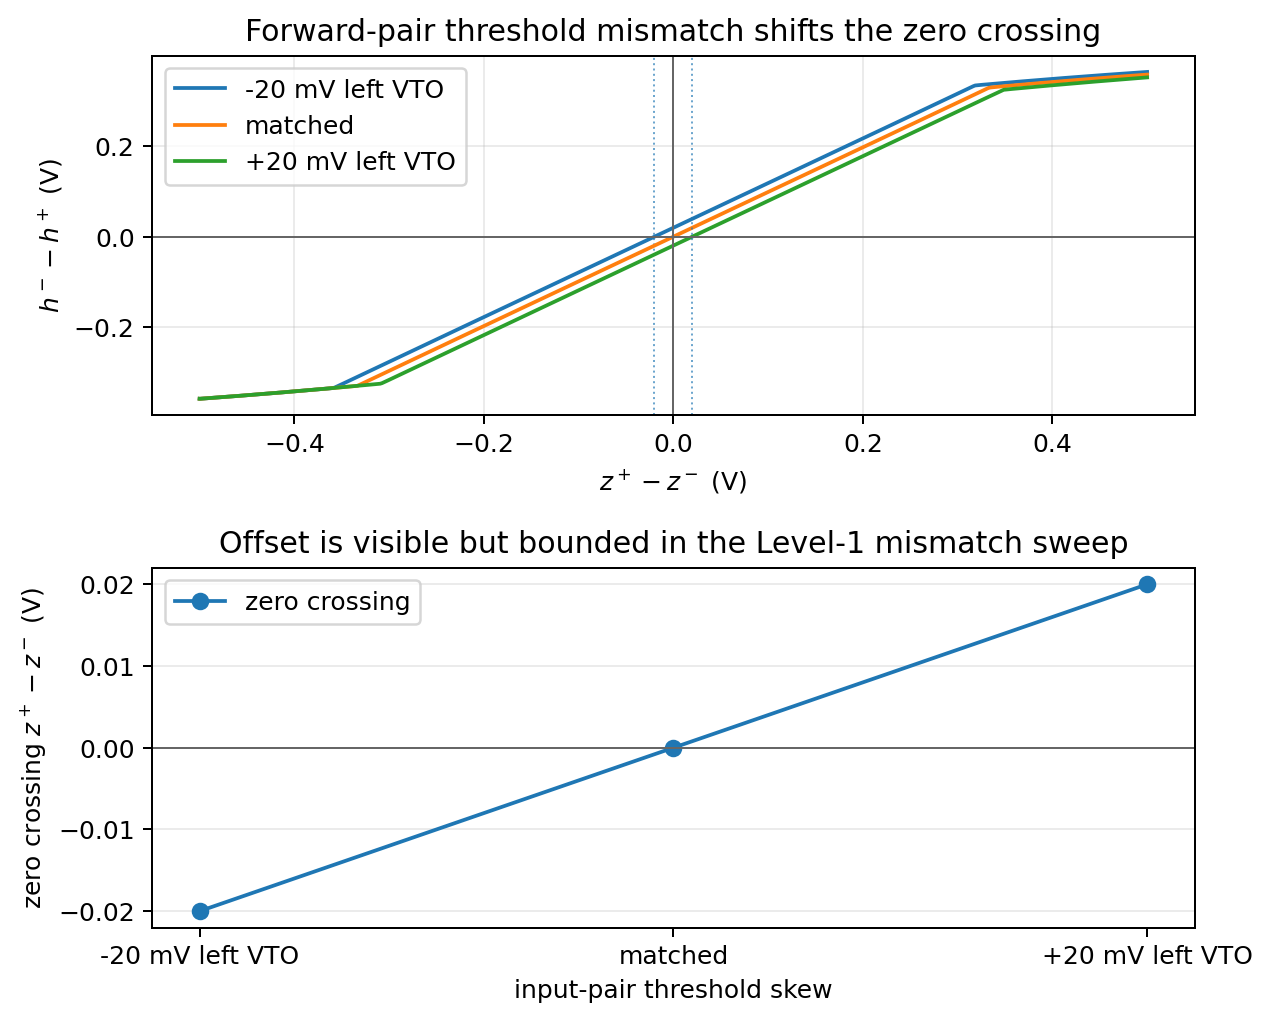
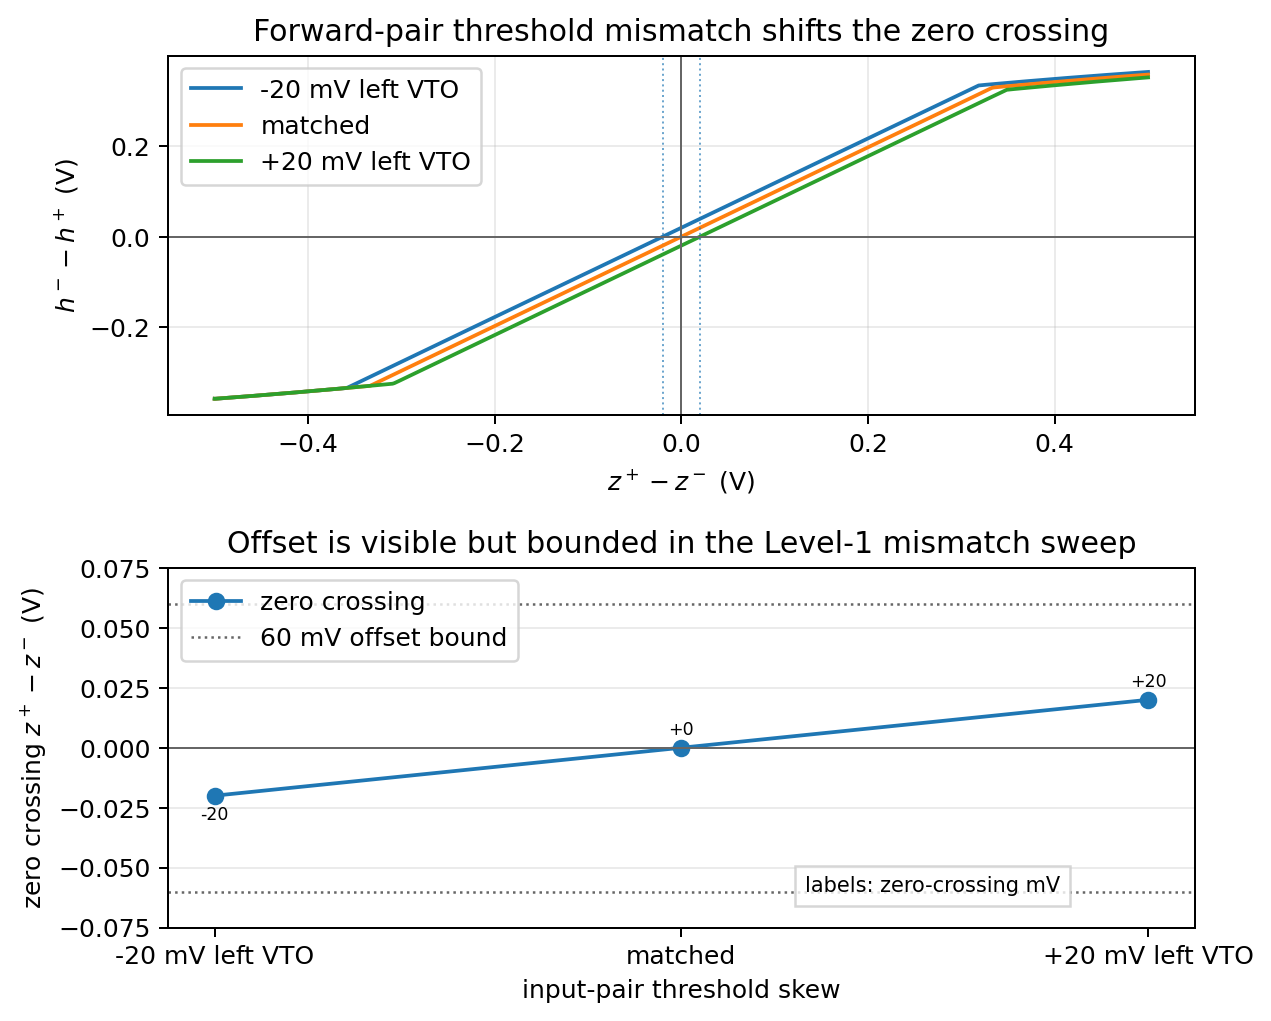
Annotate forward mismatch offset

diff --git a/spice/run_mos_cell_characterization.py b/spice/run_mos_cell_characterization.py
@@ -961,6 +961,21 @@ quit
     mismatch_axes[0].legend(loc="upper left")
     mismatch_axes[1].plot([case[3] for case in mismatch_cases], mismatch_offsets, "o-", label="zero crossing")
     mismatch_axes[1].axhline(0, color="0.4", linewidth=0.8)
+    mismatch_axes[1].axhline(0.06, color="0.4", linestyle=":", linewidth=1.0, label="60 mV offset bound")
+    mismatch_axes[1].axhline(-0.06, color="0.4", linestyle=":", linewidth=1.0)
+    mismatch_axes[1].set_ylim(-0.075, 0.075)
+    for x, offset in zip([case[3] for case in mismatch_cases], mismatch_offsets):
+        va = "bottom" if offset >= 0 else "top"
+        dy = 0.004 if offset >= 0 else -0.004
+        mismatch_axes[1].text(x, offset + dy, f"{1e3 * offset:+.0f}", ha="center", va=va, fontsize="x-small")
+    mismatch_axes[1].text(
+        0.62,
+        0.10,
+        "labels: zero-crossing mV",
+        transform=mismatch_axes[1].transAxes,
+        fontsize="small",
+        bbox={"facecolor": "white", "alpha": 0.8, "edgecolor": "0.8"},
+    )
     mismatch_axes[1].set_xlabel("input-pair threshold skew")
     mismatch_axes[1].set_ylabel("zero crossing $z^+ - z^-$ (V)")
     mismatch_axes[1].set_title("Offset is visible but bounded in the Level-1 mismatch sweep")

diff --git a/engineering_log.md b/engineering_log.md
@@ -2,6 +2,11 @@
 
 ## 2026-05-25
 
+- Tightened the forward-pair mismatch plot so the rendered ngspice evidence
+  carries the same margin as the assertion.  The MOS-only mismatch sweep still
+  measures zero-crossing shifts of about \(-20/0/+20\) mV for \(-20/0/+20\)
+  mV left-input VTO skew, and `mos_forward_mismatch_ngspice` now labels those
+  values directly while drawing the asserted \(\pm60\) mV Level-1 bound.
 - Clarified the weighted signed-synapse cancellation plot.  The underlying
   ngspice assertions already checked that shared \(z^+/z^-\) summing
   capacitors move monotonically as \(W^-\) dominates \(W^+\), cancel near zero
